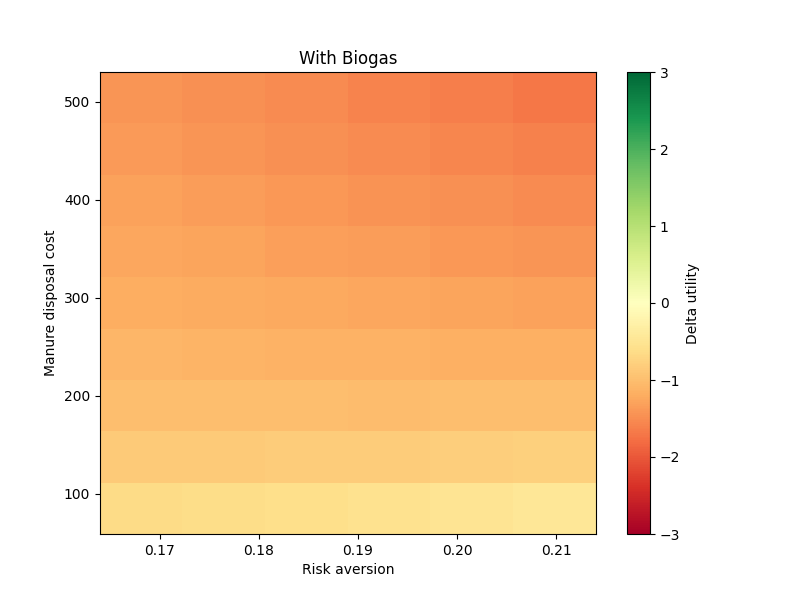
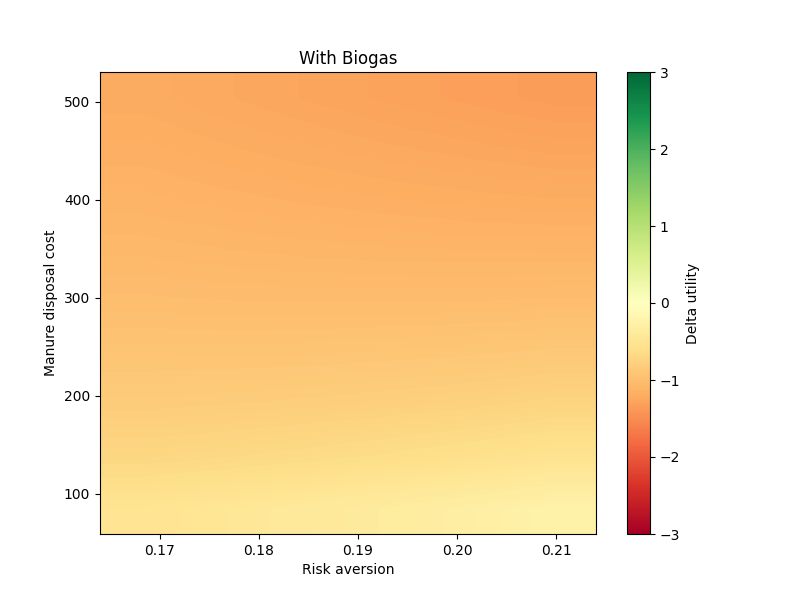
gigi

Changed region(s): [[0.125, 0.12, 0.75, 0.72], [0.4688, 0.78, 0.75, 0.81], [0.2188, 0.36, 0.25, 0.39]]

diff --git a/Biogas/Biogas.py b/Biogas/Biogas.py
@@ -7,16 +7,16 @@ import matplotlib.colors as colors
 
 N_limit = 170 # kg N/ha, direttiva nitrati
 N_buffalo = 83 # kg N/ha, Determinazione del carico di azoto secondo il DM 7/4/06
-N_strip_eff = 0.5 # Efficienza di rimozione dell'azoto
-N_strip_eff_val = np.array([0.3, 0.5, 0.7]) # min, med, max
+N_strip_eff = 0.7 # Efficienza di rimozione dell'azoto
+N_strip_eff_val = np.arange(0.5,1,0.1) # min, med, max
 Land_spred_ha = 1
 Land_cost = 589 # Euro/ha, Dati RICA, (Affitti passivi / sau in affitto)
 Land_cost_to_right = 0.1 # fraction of the land cost to be paid in case of land rights
 Land_rights = Land_cost * Land_cost_to_right
 p_sanction = 0.3 # Probabilità di sanzione
-p_sanction_val = np.arange(0.1,1,0.1)
+p_sanction_val = np.arange(0.01,1,0.05)
 Land_cost_to_rights_val = np.arange(0.1,1,0.1) #
-Land_cost_0	= 0
+Land_cost_0	= 0 #Land cost for non-compliace
 Sanction = 2582.28  # 516.46 ad euro 5164.57 , Disciplina tecnica per la utilizzazione dei liquami zootecnici - Le sanzioni amministrative sono così graduate: a) in sede di prima violazione, la sanzione da applicare è pari alla sanzione minima prevista;b) in sede di seconda violazione, la sanzione da applicare è pari al 50% della sanzione massima prevista;c) in sede di terza violazione, la sanzione da applicare è pari al 75% della sanzione massima prevista;d) in sede di quarta e successiva violazione, la sanzione da applicare è pari alla sanzione massima prevista
 Sanction_val = [516.46, 2582.28, 3873.43 , 5164.57] # min, 50%, 75%, max
 
@@ -45,8 +45,6 @@ def delta_compliance_b(l_c,risk, p_s, l_nc, s,N_eff):
 
 def is_compliance_b(l_c,risk, p_s, l_nc, s):
     return u_compliance_biogas(l_c,risk) > u_non_compliance(p_s, l_nc, risk, s)
-
-
 
 #%% Results
 # Average values
@@ -92,7 +90,7 @@ def heatmap2d(arr: np.ndarray, xlabel, ylabel, x_param, y_param, b = False):
     norm = colors.TwoSlopeNorm(vmin= -3, vcenter=0 , vmax=+3)
     img = plt.imshow(arr,aspect='auto', origin='lower', 
                  extent=[ y_param[0], y_param[-1],x_param[0], x_param[-1]], 
-                  cmap='RdYlGn', norm=norm)
+                  interpolation= 'Bilinear', cmap='RdYlGn', norm=norm)
     # Add colorbar
     plt.colorbar(img, label='Delta utility')
     if b:
@@ -106,6 +104,53 @@ def heatmap2d(arr: np.ndarray, xlabel, ylabel, x_param, y_param, b = False):
     else:
         plt.savefig(('./Grafici/'+xlabel+'_'+ylabel+'.png'))
     plt.show()
+def deltab_heat(arr: np.ndarray, xlabel, ylabel, x_param, y_param):
+    plt.figure(figsize=(8,6))
+    img = plt.imshow(arr,aspect='auto', origin='lower', 
+                 extent=[ y_param[0], y_param[-1],x_param[0], x_param[-1]], 
+                  interpolation= 'Bilinear', cmap='Blues')
+        # Add colorbar
+    plt.colorbar(img, label='Difference of Delta Utilities')
+    plt.title('Difference of Delta Utilities between biogas and non-biogas')
+    plt.xlabel(xlabel)
+    plt.ylabel(ylabel)
+    plt.savefig(('./Grafici/'+xlabel+'_'+ylabel+'_diff.png'))
+    plt.show()
+# %%
+from mpl_toolkits.mplot3d import Axes3D
+from matplotlib import pyplot as plt
+from matplotlib import colors
+def surface3d_plot(arr: np.ndarray, xlabel, ylabel, x_param, y_param, b=False):
+    fig = plt.figure(figsize=(10, 8))
+    ax = fig.add_subplot(111, projection='3d')
+
+    # Generate meshgrid for the surface plot
+    X, Y = np.meshgrid(y_param, x_param)
+    Z = arr
+
+    # Define the colormap normalization
+    norm = colors.TwoSlopeNorm(vmin=-3, vcenter=0, vmax=3)
+    cmap = plt.cm.RdYlGn
+
+    # Plot the surface
+    surf = ax.plot_surface(X, Y, Z, cmap=cmap, norm=norm, edgecolor='k', alpha=0.9)
+
+    # Add colorbar
+    cbar = fig.colorbar(surf, ax=ax, shrink=0.5, aspect=10, label='Delta utility')
+
+    # Add labels and title
+    ax.set_xlabel(xlabel)
+    ax.set_ylabel(ylabel)
+    ax.set_zlabel('Delta Utility')
+    ax.set_title('With Biogas' if b else 'Without Biogas')
+
+    # Save the figure
+    filename = f'./Grafici/{xlabel}_{ylabel}' + ('_biogas.png' if b else '.png')
+    plt.savefig(filename)
+
+    # Show the plot
+    plt.show()
+
 
 # %% Disposal costs and risk aversion
 # Sensitivity analysis
@@ -121,11 +166,63 @@ lr = Land_cost_to_rights_val*Land_cost
 heatmap2d(results, 'Risk aversion', 'Manure disposal cost', lr, Risk_aversion_val)
 heatmap2d(resultsb, 'Risk aversion', 'Manure disposal cost', lr, Risk_aversion_val,1)
 
+surface3d_plot(results, 'Risk aversion', 'Manure disposal cost', lr, Risk_aversion_val)
+
 # %% Sanction and probability of sanction
 results2 = np.zeros((len(Sanction_val),len(p_sanction_val)))
+resultsb  = np.zeros((len(Sanction_val),len(p_sanction_val)))
+deltab = np.zeros((len(Sanction_val),len(p_sanction_val)))
 for i in range(len(Sanction_val)):
     for j in range(len(p_sanction_val)):
         results2[i,j] = delta_compliance(Land_rights, Risk_aversion, p_sanction_val[j], Land_cost_0, Sanction_val[i])
-
+        resultsb[i,j] = delta_compliance_b(Land_rights, Risk_aversion, p_sanction_val[j], Land_cost_0, Sanction_val[i], N_strip_eff)
+        deltab[i,j]= resultsb[i,j] - results2[i,j]
 # Plot the heatmap
 heatmap2d(results2,  'Probability of sanction', 'Sanction',Sanction_val,p_sanction_val )
+heatmap2d(resultsb,  'Probability of sanction', 'Sanction',Sanction_val,p_sanction_val,1 )
+deltab_heat(deltab, 'Probability of sanction', 'Sanction',Sanction_val,p_sanction_val)
+surface3d_plot(results2, 'Probability of sanction', 'Sanction',Sanction_val,p_sanction_val)
+# %% Risk aversion and probability of sanction
+results = np.zeros((len(p_sanction_val),len(Risk_aversion_val)))
+resultsb  = np.zeros((len(p_sanction_val),len(Risk_aversion_val)))
+deltab = np.zeros((len(p_sanction_val),len(Risk_aversion_val)))
+for i in range(len(Risk_aversion_val)):
+    for j in range(len(p_sanction_val)):
+        results[j,i]= delta_compliance(Land_rights, Risk_aversion_val[i], p_sanction_val[j], Land_cost_0, Sanction)
+        resultsb[j,i]= delta_compliance_b(Land_rights, Risk_aversion_val[i], p_sanction_val[j], Land_cost_0, Sanction, N_strip_eff)
+        deltab[j,i]= resultsb[j,i] - results[j,i]
+# Plot the heatmap
+heatmap2d(results, 'Risk aversion', 'Probability of sanction', p_sanction_val, Risk_aversion_val, )
+heatmap2d(resultsb, 'Risk aversion', 'Probability of sanction', p_sanction_val,Risk_aversion_val, 1)
+deltab_heat(deltab, 'Risk aversion', 'Probability of sanction', p_sanction_val,Risk_aversion_val)
+surface3d_plot(results, 'Risk aversion', 'Probability of sanction', p_sanction_val,Risk_aversion_val)
+# %%
+# %% Risk aversion and Land_rights
+results = np.zeros((len(Land_cost_to_rights_val),len(Risk_aversion_val)))
+resultsb  = np.zeros((len(Land_cost_to_rights_val),len(Risk_aversion_val)))
+for i in range(len(Land_cost_to_rights_val)):
+    for j in range(len(Risk_aversion_val)):
+        L_r = Land_cost * Land_cost_to_rights_val[i]
+        results[i,j]= delta_compliance(L_r, Risk_aversion_val[j], p_sanction, Land_cost_0, Sanction)
+        resultsb[i,j]= delta_compliance_b(L_r, Risk_aversion_val[j], p_sanction, Land_cost_0, Sanction, N_strip_eff)
+
+#Plot the heatmap
+heatmap2d(results, 'Risk aversion', 'Manure disposal cost',(Land_cost * Land_cost_to_rights_val), Risk_aversion_val)
+heatmap2d(resultsb, 'Risk aversion', 'Manure disposal cost',(Land_cost * Land_cost_to_rights_val), Risk_aversion_val,1)
+deltab_heat(resultsb-results, 'Risk aversion', 'Manure disposal cost',(Land_cost * Land_cost_to_rights_val), Risk_aversion_val)
+surface3d_plot(results, 'Risk aversion', 'Manure disposal cost',(Land_cost * Land_cost_to_rights_val), Risk_aversion_val)
+# %% Nitrogen removal efficiency and probability of sanction
+results = np.zeros((len(p_sanction_val),len(N_strip_eff_val)))
+resultsb  = np.zeros((len(p_sanction_val),len(N_strip_eff_val)))
+deltab = np.zeros((len(p_sanction_val),len(N_strip_eff_val)))
+for i in range(len(p_sanction_val)):
+    for j in range(len(N_strip_eff_val)):
+        results[i,j]= delta_compliance(Land_rights, Risk_aversion, p_sanction_val[i], Land_cost_0, Sanction)
+        resultsb[i,j]= delta_compliance_b(Land_rights, Risk_aversion, p_sanction_val[i], Land_cost_0, Sanction, N_strip_eff_val[j])
+        deltab[i,j]= resultsb[i,j] - results[i,j]
+# Plot the heatmap
+heatmap2d(results, 'Nitrogen removal efficiency', 'Probability of sanction',p_sanction_val, N_strip_eff_val )
+heatmap2d(resultsb, 'Nitrogen removal efficiency', 'Probability of sanction',p_sanction_val, N_strip_eff_val,1 )
+deltab_heat(deltab, 'Nitrogen removal efficiency', 'Probability of sanction',p_sanction_val, N_strip_eff_val)
+surface3d_plot(results, 'Nitrogen removal efficiency', 'Probability of sanction',p_sanction_val, N_strip_eff_val)
+# %%
